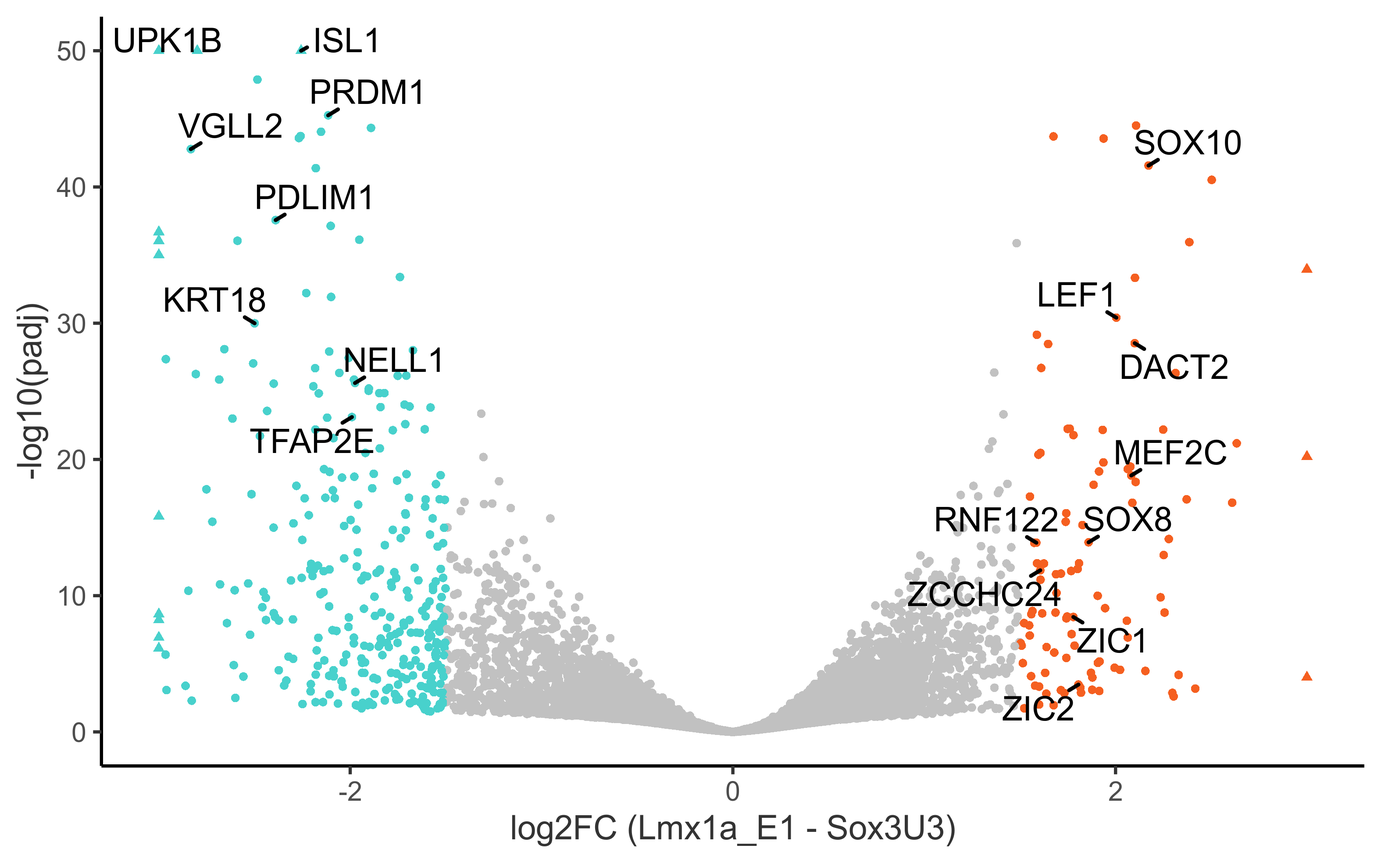
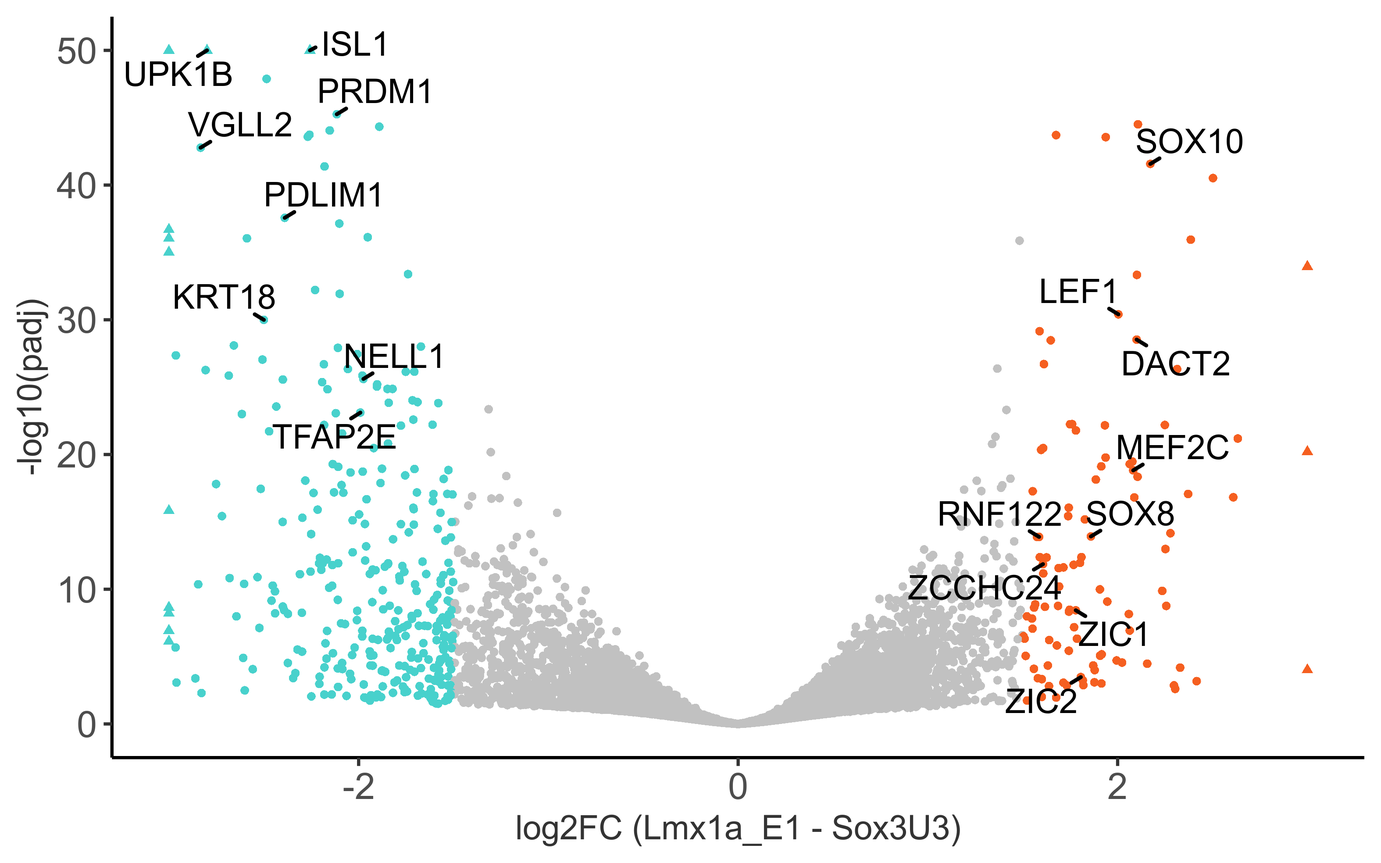
rebuild website

diff --git a/docs/_site/downstream/sox8_downstream/index.html b/docs/_site/downstream/sox8_downstream/index.html
@@ -356,7 +356,8 @@
                      </span><span class="n">values</span><span class="o">=</span><span class="w"> </span><span class="nf">c</span><span class="p">(</span><span class="n">plot_colours</span><span class="o">$</span><span class="n">Group</span><span class="p">[</span><span class="m">2</span><span class="p">],</span><span class="w"> </span><span class="s2">"#c1c1c1"</span><span class="p">,</span><span class="w"> </span><span class="n">plot_colours</span><span class="o">$</span><span class="n">Group</span><span class="p">[</span><span class="m">1</span><span class="p">]))</span><span class="w"> </span><span class="o">+</span><span class="w">
   </span><span class="n">theme</span><span class="p">(</span><span class="n">panel.grid.major</span><span class="w"> </span><span class="o">=</span><span class="w"> </span><span class="n">element_blank</span><span class="p">(),</span><span class="w"> </span><span class="n">panel.grid.minor</span><span class="w"> </span><span class="o">=</span><span class="w"> </span><span class="n">element_blank</span><span class="p">(),</span><span class="w">
         </span><span class="n">panel.background</span><span class="w"> </span><span class="o">=</span><span class="w"> </span><span class="n">element_blank</span><span class="p">(),</span><span class="w"> </span><span class="n">axis.line</span><span class="w"> </span><span class="o">=</span><span class="w"> </span><span class="n">element_line</span><span class="p">(</span><span class="n">colour</span><span class="w"> </span><span class="o">=</span><span class="w"> </span><span class="s2">"black"</span><span class="p">),</span><span class="w">
-        </span><span class="n">legend.position</span><span class="w"> </span><span class="o">=</span><span class="w"> </span><span class="s2">"none"</span><span class="p">,</span><span class="w"> </span><span class="n">legend.title</span><span class="w"> </span><span class="o">=</span><span class="w"> </span><span class="n">element_blank</span><span class="p">())</span><span class="w"> </span><span class="o">+</span><span class="w">
+        </span><span class="n">legend.position</span><span class="w"> </span><span class="o">=</span><span class="w"> </span><span class="s2">"none"</span><span class="p">,</span><span class="w"> </span><span class="n">legend.title</span><span class="w"> </span><span class="o">=</span><span class="w"> </span><span class="n">element_blank</span><span class="p">(),</span><span class="w">
+        </span><span class="n">axis.text</span><span class="w"> </span><span class="o">=</span><span class="w"> </span><span class="n">element_text</span><span class="p">(</span><span class="n">size</span><span class="w"> </span><span class="o">=</span><span class="w"> </span><span class="m">12</span><span class="p">))</span><span class="w"> </span><span class="o">+</span><span class="w">
   </span><span class="n">geom_text_repel</span><span class="p">(</span><span class="n">data</span><span class="w"> </span><span class="o">=</span><span class="w"> </span><span class="n">subset</span><span class="p">(</span><span class="n">volc_dat</span><span class="p">,</span><span class="w"> </span><span class="n">gene</span><span class="w"> </span><span class="o">%in%</span><span class="w"> </span><span class="nf">c</span><span class="p">(</span><span class="n">otic_genes</span><span class="p">,</span><span class="w"> </span><span class="n">downreg</span><span class="p">,</span><span class="w"> </span><span class="s2">"SNAI1"</span><span class="p">)),</span><span class="w"> </span><span class="n">min.segment.length</span><span class="w"> </span><span class="o">=</span><span class="w"> </span><span class="m">0</span><span class="p">,</span><span class="w"> </span><span class="n">segment.size</span><span class="w">  </span><span class="o">=</span><span class="w"> </span><span class="m">0.6</span><span class="p">,</span><span class="w"> </span><span class="n">segment.color</span><span class="w"> </span><span class="o">=</span><span class="w"> </span><span class="s2">"black"</span><span class="p">)</span><span class="w"> </span><span class="o">+</span><span class="w">
   </span><span class="n">xlab</span><span class="p">(</span><span class="s1">'log2FC (Sox8_OE - Control)'</span><span class="p">)</span><span class="w">
 </span><span class="n">graphics.off</span><span class="p">()</span><span class="w">
@@ -564,6 +565,144 @@ differential expression results (absolute log2FC &gt; 1.5 and adjusted p-value &
 </span></code></pre></div></div>
 </details>
 <img class="myImages" id="myImg" src="https://alexthiery.github.io/otic-reprogramming/assets/output/NF-downstream_analysis/sox8_dea/output/sox8_oe_TFs_hm.png">
+</br>
+<p>Compare DE data with DE TFs from Chen et al. (2017) Development</p>
+<div class="language-R highlighter-rouge"><div class="highlight"><pre class="highlight"><code><span class="c1"># Download supplementary file 4 from Chen et al. (2017)</span><span class="w">
+</span><span class="c1"># PPR vs otic 5/6ss, PPR vs otic 8/9ss, PPR vs otic 11/12ss. Dataset is already filtered for transcription factors</span><span class="w">
+
+</span><span class="n">temp</span><span class="w"> </span><span class="o">&lt;-</span><span class="w"> </span><span class="n">tempfile</span><span class="p">()</span><span class="w">
+</span><span class="n">download.file</span><span class="p">(</span><span class="s2">"http://www.biologists.com/DEV_Movies/DEV148494/TableS4.xlsx"</span><span class="p">,</span><span class="w"> </span><span class="n">temp</span><span class="p">)</span><span class="w">
+
+</span><span class="c1"># read xlsx file</span><span class="w">
+</span><span class="n">otic_enr</span><span class="w"> </span><span class="o">&lt;-</span><span class="w"> </span><span class="n">read.xlsx</span><span class="p">(</span><span class="n">temp</span><span class="p">,</span><span class="w"> </span><span class="n">startRow</span><span class="w"> </span><span class="o">=</span><span class="w"> </span><span class="m">15</span><span class="p">)</span><span class="w">
+</span><span class="n">unlink</span><span class="p">(</span><span class="n">temp</span><span class="p">)</span><span class="w">
+
+</span><span class="c1"># assign column names</span><span class="w">
+</span><span class="n">colnames</span><span class="p">(</span><span class="n">otic_enr</span><span class="p">)[</span><span class="m">1</span><span class="o">:</span><span class="m">13</span><span class="p">]</span><span class="w"> </span><span class="o">&lt;-</span><span class="w"> </span><span class="n">paste0</span><span class="p">(</span><span class="n">colnames</span><span class="p">(</span><span class="n">otic_enr</span><span class="p">)[</span><span class="m">1</span><span class="o">:</span><span class="m">13</span><span class="p">],</span><span class="w"> </span><span class="nf">c</span><span class="p">(</span><span class="nf">rep</span><span class="p">(</span><span class="s1">'_normalised_count'</span><span class="p">,</span><span class="w"> </span><span class="m">4</span><span class="p">),</span><span class="w"> </span><span class="nf">rep</span><span class="p">(</span><span class="s1">'_foldChange'</span><span class="p">,</span><span class="w"> </span><span class="m">3</span><span class="p">),</span><span class="w">
+                                                               </span><span class="nf">rep</span><span class="p">(</span><span class="s1">'_pval'</span><span class="p">,</span><span class="w"> </span><span class="m">3</span><span class="p">),</span><span class="w"> </span><span class="nf">rep</span><span class="p">(</span><span class="s1">'_padj'</span><span class="p">,</span><span class="w"> </span><span class="m">3</span><span class="p">)))</span><span class="w">
+
+</span><span class="c1"># assign row names</span><span class="w">
+</span><span class="n">rownames</span><span class="p">(</span><span class="n">otic_enr</span><span class="p">)</span><span class="w"> </span><span class="o">&lt;-</span><span class="w"> </span><span class="n">otic_enr</span><span class="p">[,</span><span class="m">17</span><span class="p">]</span><span class="w">
+</span><span class="n">otic_enr</span><span class="p">[,</span><span class="m">17</span><span class="p">]</span><span class="w"> </span><span class="o">&lt;-</span><span class="w"> </span><span class="kc">NULL</span><span class="w">
+
+</span><span class="c1"># remove genes from Chen dataset which are not DE in at least one of the stages (not sure why these are in the supplementary file)</span><span class="w">
+</span><span class="n">otic_enr</span><span class="w"> </span><span class="o">&lt;-</span><span class="w"> </span><span class="n">otic_enr</span><span class="p">[</span><span class="n">apply</span><span class="p">(</span><span class="n">otic_enr</span><span class="p">,</span><span class="w"> </span><span class="m">1</span><span class="p">,</span><span class="w"> </span><span class="k">function</span><span class="p">(</span><span class="n">x</span><span class="p">)</span><span class="w"> </span><span class="nf">any</span><span class="p">(</span><span class="o">!</span><span class="nf">is.na</span><span class="p">(</span><span class="n">x</span><span class="p">[</span><span class="nf">c</span><span class="p">(</span><span class="s2">"5-6ss_foldChange"</span><span class="p">,</span><span class="w"> </span><span class="s2">"8-9ss_foldChange"</span><span class="p">,</span><span class="w"> </span><span class="s2">"11-12ss_foldChange"</span><span class="p">)]))),]</span><span class="w">
+
+
+</span><span class="c1"># compare Sox8OE data vs otic enriched</span><span class="w">
+</span><span class="c1"># subset genes wich are 1.5FC between either PPR vs 4/5ss, PPR vs 8/9ss, PPR vs 11/12ss</span><span class="w">
+</span><span class="n">otic_enr</span><span class="w"> </span><span class="o">&lt;-</span><span class="w"> </span><span class="n">otic_enr</span><span class="p">[</span><span class="n">otic_enr</span><span class="o">$</span><span class="n">`5-6ss_foldChange`</span><span class="w"> </span><span class="o">&gt;</span><span class="w"> </span><span class="m">1.5</span><span class="w"> </span><span class="o">|</span><span class="w">
+                       </span><span class="n">otic_enr</span><span class="o">$</span><span class="n">`8-9ss_foldChange`</span><span class="w"> </span><span class="o">&gt;</span><span class="w"> </span><span class="m">1.5</span><span class="w"> </span><span class="o">|</span><span class="w">
+                       </span><span class="n">otic_enr</span><span class="o">$</span><span class="n">`11-12ss_foldChange`</span><span class="w"> </span><span class="o">&gt;</span><span class="w"> </span><span class="m">1.5</span><span class="p">,]</span><span class="w">
+</span></code></pre></div></div>
+<p>Plot venn diagram comparing OOPE and Sox8OE</p>
+<details><summary class="box">Code</summary>
+<p>
+<div class="language-R highlighter-rouge"><div class="highlight"><pre class="highlight"><code><span class="n">venn.diagram</span><span class="p">(</span><span class="nf">list</span><span class="p">(</span><span class="n">otic_enr</span><span class="o">=</span><span class="n">rownames</span><span class="p">(</span><span class="n">otic_enr</span><span class="p">),</span><span class="w"> </span><span class="n">sox8OE</span><span class="o">=</span><span class="n">res_sub_TF</span><span class="o">$</span><span class="n">gene_name</span><span class="p">),</span><span class="w">
+             </span><span class="n">category.names</span><span class="w"> </span><span class="o">=</span><span class="w"> </span><span class="nf">c</span><span class="p">(</span><span class="s2">"logFC &gt; 1.5 in any of PPR vs 5/6ss, PPR vs 8/9ss, PPR vs 11/12ss \n(Chen et al. 2017)"</span><span class="p">,</span><span class="w"> </span><span class="s2">"Sox8OE enriched TFs\n(logFC &gt; 1.5, padj = 0.05)"</span><span class="p">),</span><span class="w">
+             </span><span class="n">filename</span><span class="w"> </span><span class="o">=</span><span class="w"> </span><span class="n">paste0</span><span class="p">(</span><span class="n">output_path</span><span class="p">,</span><span class="w"> </span><span class="s2">"otic_enriched_sox8OE_de_venn.png"</span><span class="p">),</span><span class="w">
+             </span><span class="n">output</span><span class="w"> </span><span class="o">=</span><span class="w"> </span><span class="kc">TRUE</span><span class="p">,</span><span class="w">
+             </span><span class="n">imagetype</span><span class="w"> </span><span class="o">=</span><span class="w"> </span><span class="s2">"png"</span><span class="p">,</span><span class="w">
+             </span><span class="n">height</span><span class="w"> </span><span class="o">=</span><span class="w"> </span><span class="m">1100</span><span class="p">,</span><span class="w">
+             </span><span class="n">width</span><span class="w"> </span><span class="o">=</span><span class="w"> </span><span class="m">1100</span><span class="p">,</span><span class="w">
+             </span><span class="n">resolution</span><span class="w"> </span><span class="o">=</span><span class="w"> </span><span class="m">600</span><span class="p">,</span><span class="w">
+             </span><span class="n">compression</span><span class="w"> </span><span class="o">=</span><span class="w"> </span><span class="s2">"lzw"</span><span class="p">,</span><span class="w">
+             </span><span class="n">lwd</span><span class="w"> </span><span class="o">=</span><span class="w"> </span><span class="m">1</span><span class="p">,</span><span class="w">
+             </span><span class="n">col</span><span class="o">=</span><span class="nf">c</span><span class="p">(</span><span class="s2">"#440154ff"</span><span class="p">,</span><span class="w"> </span><span class="s1">'#21908dff'</span><span class="p">),</span><span class="w">
+             </span><span class="n">fill</span><span class="w"> </span><span class="o">=</span><span class="w"> </span><span class="nf">c</span><span class="p">(</span><span class="n">alpha</span><span class="p">(</span><span class="s2">"#440154ff"</span><span class="p">,</span><span class="m">0.3</span><span class="p">),</span><span class="w"> </span><span class="n">alpha</span><span class="p">(</span><span class="s1">'#21908dff'</span><span class="p">,</span><span class="m">0.3</span><span class="p">)),</span><span class="w">
+             </span><span class="n">cex</span><span class="w"> </span><span class="o">=</span><span class="w"> </span><span class="m">0.5</span><span class="p">,</span><span class="w">
+             </span><span class="n">fontfamily</span><span class="w"> </span><span class="o">=</span><span class="w"> </span><span class="s2">"sans"</span><span class="p">,</span><span class="w">
+             </span><span class="n">cat.cex</span><span class="w"> </span><span class="o">=</span><span class="w"> </span><span class="m">0.25</span><span class="p">,</span><span class="w">
+             </span><span class="n">cat.pos</span><span class="w"> </span><span class="o">=</span><span class="w"> </span><span class="nf">c</span><span class="p">(</span><span class="m">0</span><span class="p">,</span><span class="w"> </span><span class="m">0</span><span class="p">),</span><span class="w">
+             </span><span class="n">cat.dist</span><span class="w"> </span><span class="o">=</span><span class="w"> </span><span class="nf">c</span><span class="p">(</span><span class="m">0.03</span><span class="p">,</span><span class="w"> </span><span class="m">0.03</span><span class="p">),</span><span class="w">
+             </span><span class="n">cat.fontfamily</span><span class="w"> </span><span class="o">=</span><span class="w"> </span><span class="s2">"sans"</span><span class="p">,</span><span class="w">
+             </span><span class="n">cat.col</span><span class="w"> </span><span class="o">=</span><span class="w"> </span><span class="nf">c</span><span class="p">(</span><span class="s2">"#440154ff"</span><span class="p">,</span><span class="w"> </span><span class="s1">'#21908dff'</span><span class="p">),</span><span class="w">
+             </span><span class="n">ext.percent</span><span class="w"> </span><span class="o">=</span><span class="w"> </span><span class="m">0</span><span class="w">
+</span><span class="p">)</span><span class="w">
+</span></code></pre></div></div>
+</details>
+<img class="myImages" id="myImg" src="https://alexthiery.github.io/otic-reprogramming/assets/output/NF-downstream_analysis/sox8_dea/output/otic_enriched_sox8OE_de_venn.png">
+</br>
+<p>Make csv file of genes in each part of venn diagram</p>
+<details><summary class="box">Code</summary>
+<p>
+<div class="language-R highlighter-rouge"><div class="highlight"><pre class="highlight"><code><span class="c1"># when identifying shared genes between current study and previous studies which are alligned using different genome version, match genes using gene name.</span><span class="w">
+</span><span class="c1"># this is important as some of the Ensembl IDs from past genome versions have been depracated and therefore are absent from our data.</span><span class="w">
+</span><span class="n">venn.genes</span><span class="w"> </span><span class="o">&lt;-</span><span class="w"> </span><span class="nf">list</span><span class="p">(</span><span class="s2">"Otic enriched"</span><span class="w"> </span><span class="o">=</span><span class="w"> </span><span class="n">rownames</span><span class="p">(</span><span class="n">otic_enr</span><span class="p">)[</span><span class="o">!</span><span class="n">rownames</span><span class="p">(</span><span class="n">otic_enr</span><span class="p">)</span><span class="w"> </span><span class="o">%in%</span><span class="w"> </span><span class="n">res_sub_TF</span><span class="o">$</span><span class="n">gene_name</span><span class="p">],</span><span class="w">
+                   </span><span class="s2">"Sox8OE"</span><span class="w"> </span><span class="o">=</span><span class="w"> </span><span class="n">res_sub_TF</span><span class="o">$</span><span class="n">gene_name</span><span class="p">[</span><span class="o">!</span><span class="n">res_sub_TF</span><span class="o">$</span><span class="n">gene_name</span><span class="w"> </span><span class="o">%in%</span><span class="w"> </span><span class="n">rownames</span><span class="p">(</span><span class="n">otic_enr</span><span class="p">)],</span><span class="w">
+                   </span><span class="s2">"Shared"</span><span class="w"> </span><span class="o">=</span><span class="w"> </span><span class="n">res_sub_TF</span><span class="o">$</span><span class="n">gene_name</span><span class="p">[</span><span class="n">res_sub_TF</span><span class="o">$</span><span class="n">gene_name</span><span class="w"> </span><span class="o">%in%</span><span class="w"> </span><span class="n">rownames</span><span class="p">(</span><span class="n">otic_enr</span><span class="p">)])</span><span class="w">
+
+</span><span class="n">venn.genes.df</span><span class="w"> </span><span class="o">&lt;-</span><span class="w"> </span><span class="n">t</span><span class="p">(</span><span class="n">plyr</span><span class="o">::</span><span class="n">ldply</span><span class="p">(</span><span class="n">venn.genes</span><span class="p">,</span><span class="w"> </span><span class="n">rbind</span><span class="p">))</span><span class="w">
+</span><span class="n">colnames</span><span class="p">(</span><span class="n">venn.genes.df</span><span class="p">)</span><span class="w"> </span><span class="o">&lt;-</span><span class="w"> </span><span class="n">venn.genes.df</span><span class="p">[</span><span class="m">1</span><span class="p">,]</span><span class="w">
+</span><span class="n">venn.genes.df</span><span class="w"> </span><span class="o">&lt;-</span><span class="w"> </span><span class="n">venn.genes.df</span><span class="p">[</span><span class="m">-1</span><span class="p">,]</span><span class="w">
+
+
+</span><span class="n">cat</span><span class="p">(</span><span class="s2">"This table provides a list of genes from each part of the venn diagram.
+Differentially expressed transcription factors between Sox8 overexpression and control samples were cross compared with genes in supplementary table 4 of Chen et al. (2017) Development
+Genes from supplementary table 4 of Chen et al. (2017) Development were filtered and kept if they were found to be differentially expressed (absolute FC &gt; 1.5) between either: PPR vs 5/6ss otic; PPR vs 8/9ss otic; PPR vs 11/12ss otic \n \n"</span><span class="p">,</span><span class="w">
+    </span><span class="n">file</span><span class="w"> </span><span class="o">=</span><span class="w"> </span><span class="n">paste0</span><span class="p">(</span><span class="n">output_path</span><span class="p">,</span><span class="w"> </span><span class="s2">"Sox8_OE_Supplementary_4.csv"</span><span class="p">))</span><span class="w">
+</span><span class="n">write.table</span><span class="p">(</span><span class="n">venn.genes.df</span><span class="p">,</span><span class="w"> </span><span class="n">paste0</span><span class="p">(</span><span class="n">output_path</span><span class="p">,</span><span class="w"> </span><span class="s2">"Sox8_OE_Supplementary_4.csv"</span><span class="p">),</span><span class="w"> </span><span class="n">append</span><span class="o">=</span><span class="kc">TRUE</span><span class="p">,</span><span class="w"> </span><span class="n">row.names</span><span class="w"> </span><span class="o">=</span><span class="w"> </span><span class="nb">F</span><span class="p">,</span><span class="w"> </span><span class="n">na</span><span class="w"> </span><span class="o">=</span><span class="w"> </span><span class="s1">''</span><span class="p">,</span><span class="w"> </span><span class="n">sep</span><span class="o">=</span><span class="s2">","</span><span class="p">)</span><span class="w">
+</span></code></pre></div></div>
+</details>
+<p><a href="https://alexthiery.github.io/otic-reprogramming/assets/output/NF-downstream_analysis/sox8_dea/output/Sox8_OE_Supplementary_4.csv" download>Download otic enriched and Sox8OE enriched transcription factors presented in the venn diagram above.</a></p>
+</br>
+<p>Plot heatmap of transcription factors which are DE in otic cells (Chen 2017) and DE in Sox8OE relative to control cells</p>
+<details><summary class="box">Code</summary>
+<p>
+<div class="language-R highlighter-rouge"><div class="highlight"><pre class="highlight"><code><span class="n">rld.plot</span><span class="w"> </span><span class="o">&lt;-</span><span class="w"> </span><span class="n">assay</span><span class="p">(</span><span class="n">rld</span><span class="p">)</span><span class="w">
+</span><span class="n">rownames</span><span class="p">(</span><span class="n">rld.plot</span><span class="p">)</span><span class="w"> </span><span class="o">&lt;-</span><span class="w"> </span><span class="n">gene_annotations</span><span class="o">$</span><span class="n">gene_name</span><span class="p">[</span><span class="n">match</span><span class="p">(</span><span class="n">rownames</span><span class="p">(</span><span class="n">rld.plot</span><span class="p">),</span><span class="w"> </span><span class="n">gene_annotations</span><span class="o">$</span><span class="n">gene_id</span><span class="p">)]</span><span class="w">
+
+</span><span class="n">png</span><span class="p">(</span><span class="n">paste0</span><span class="p">(</span><span class="n">output_path</span><span class="p">,</span><span class="w"> </span><span class="s2">"otic_enriched_sox8_de_hm.png"</span><span class="p">),</span><span class="n">height</span><span class="w"> </span><span class="o">=</span><span class="w"> </span><span class="m">8</span><span class="p">,</span><span class="w"> </span><span class="n">width</span><span class="w"> </span><span class="o">=</span><span class="w"> </span><span class="m">21</span><span class="p">,</span><span class="w"> </span><span class="n">units</span><span class="w"> </span><span class="o">=</span><span class="w"> </span><span class="s2">"cm"</span><span class="p">,</span><span class="w"> </span><span class="n">res</span><span class="w"> </span><span class="o">=</span><span class="w"> </span><span class="m">200</span><span class="p">)</span><span class="w">
+</span><span class="n">pheatmap</span><span class="p">(</span><span class="n">rld.plot</span><span class="p">[</span><span class="n">venn.genes</span><span class="o">$</span><span class="n">Shared</span><span class="p">,],</span><span class="w"> </span><span class="n">cluster_rows</span><span class="o">=</span><span class="nb">T</span><span class="p">,</span><span class="w"> </span><span class="n">show_rownames</span><span class="o">=</span><span class="nb">T</span><span class="p">,</span><span class="w">
+         </span><span class="n">show_colnames</span><span class="w"> </span><span class="o">=</span><span class="w"> </span><span class="nb">F</span><span class="p">,</span><span class="w"> </span><span class="n">cluster_cols</span><span class="o">=</span><span class="nb">T</span><span class="p">,</span><span class="w"> </span><span class="n">treeheight_row</span><span class="w"> </span><span class="o">=</span><span class="w"> </span><span class="m">30</span><span class="p">,</span><span class="w"> </span><span class="n">treeheight_col</span><span class="w"> </span><span class="o">=</span><span class="w"> </span><span class="m">30</span><span class="p">,</span><span class="w">
+         </span><span class="n">annotation_col</span><span class="o">=</span><span class="n">as.data.frame</span><span class="p">(</span><span class="n">col_data</span><span class="p">[</span><span class="s2">"Group"</span><span class="p">]),</span><span class="w"> </span><span class="n">scale</span><span class="w"> </span><span class="o">=</span><span class="w"> </span><span class="s2">"row"</span><span class="p">,</span><span class="w">
+         </span><span class="n">main</span><span class="w"> </span><span class="o">=</span><span class="w"> </span><span class="s2">"Shared Otic and Sox8OE enriched TFs \n(logFC &gt; 1.5, padj = 0.05)"</span><span class="p">,</span><span class="w"> </span><span class="n">cellwidth</span><span class="w"> </span><span class="o">=</span><span class="w"> </span><span class="m">50</span><span class="p">,</span><span class="w"> </span><span class="n">cellheight</span><span class="w"> </span><span class="o">=</span><span class="w"> </span><span class="m">10</span><span class="p">,</span><span class="w">
+         </span><span class="n">border_color</span><span class="w"> </span><span class="o">=</span><span class="w"> </span><span class="kc">NA</span><span class="p">)</span><span class="w">
+</span><span class="n">graphics.off</span><span class="p">()</span><span class="w">
+</span></code></pre></div></div>
+</details>
+<img class="myImages" id="myImg" src="https://alexthiery.github.io/otic-reprogramming/assets/output/NF-downstream_analysis/sox8_dea/output/otic_enriched_sox8_de_hm.png">
+</br>
+<p>Plot all transcription factors DE in Chen et al. 2017 abs(1.5 FC) using our data - do not filter genes which are not DE in the Sox8OE</p>
+<details><summary class="box">Code</summary>
+<p>
+<div class="language-R highlighter-rouge"><div class="highlight"><pre class="highlight"><code><span class="n">png</span><span class="p">(</span><span class="n">paste0</span><span class="p">(</span><span class="n">output_path</span><span class="p">,</span><span class="w"> </span><span class="s2">"otic_enriched_sox8_any_hm.png"</span><span class="p">),</span><span class="n">height</span><span class="w"> </span><span class="o">=</span><span class="w"> </span><span class="m">40</span><span class="p">,</span><span class="w"> </span><span class="n">width</span><span class="w"> </span><span class="o">=</span><span class="w"> </span><span class="m">21</span><span class="p">,</span><span class="w"> </span><span class="n">units</span><span class="w"> </span><span class="o">=</span><span class="w"> </span><span class="s2">"cm"</span><span class="p">,</span><span class="w"> </span><span class="n">res</span><span class="w"> </span><span class="o">=</span><span class="w"> </span><span class="m">200</span><span class="p">)</span><span class="w">
+</span><span class="n">pheatmap</span><span class="p">(</span><span class="n">rld.plot</span><span class="p">[</span><span class="n">rownames</span><span class="p">(</span><span class="n">otic_enr</span><span class="p">)[</span><span class="n">rownames</span><span class="p">(</span><span class="n">otic_enr</span><span class="p">)</span><span class="w"> </span><span class="o">%in%</span><span class="w"> </span><span class="n">rownames</span><span class="p">(</span><span class="n">rld.plot</span><span class="p">)],],</span><span class="w"> </span><span class="n">cluster_rows</span><span class="o">=</span><span class="nb">T</span><span class="p">,</span><span class="w"> </span><span class="n">show_rownames</span><span class="o">=</span><span class="nb">T</span><span class="p">,</span><span class="w">
+         </span><span class="n">show_colnames</span><span class="w"> </span><span class="o">=</span><span class="w"> </span><span class="nb">F</span><span class="p">,</span><span class="w"> </span><span class="n">cluster_cols</span><span class="o">=</span><span class="nb">T</span><span class="p">,</span><span class="w"> </span><span class="n">treeheight_row</span><span class="w"> </span><span class="o">=</span><span class="w"> </span><span class="m">30</span><span class="p">,</span><span class="w"> </span><span class="n">treeheight_col</span><span class="w"> </span><span class="o">=</span><span class="w"> </span><span class="m">30</span><span class="p">,</span><span class="w">
+         </span><span class="n">annotation_col</span><span class="o">=</span><span class="n">as.data.frame</span><span class="p">(</span><span class="n">col_data</span><span class="p">[</span><span class="s2">"Group"</span><span class="p">]),</span><span class="w"> </span><span class="n">scale</span><span class="w"> </span><span class="o">=</span><span class="w"> </span><span class="s2">"row"</span><span class="p">,</span><span class="w">
+         </span><span class="n">main</span><span class="w"> </span><span class="o">=</span><span class="w"> </span><span class="s2">"Otic enriched TFs - not necessarily DE between Sox8 and control \n(logFC &gt; 1.5, padj = 0.05)"</span><span class="p">,</span><span class="w">
+         </span><span class="n">border_color</span><span class="w"> </span><span class="o">=</span><span class="w"> </span><span class="kc">NA</span><span class="p">)</span><span class="w">
+</span><span class="n">graphics.off</span><span class="p">()</span><span class="w">
+
+</span><span class="c1"># This heatmap reveals that although many genes are not statistically DE in the Sox8OE - they are clearly upregulated in two of the three Sox8 samples.</span><span class="w">
+</span><span class="c1"># A possible explanation for this is that the Sox8OE does not necessarily switch on the otic program at the same rate in different samples and different cells.</span><span class="w">
+</span><span class="c1"># There may be modules of genes which are switched on at different points of otic specification. This variation could explain why these</span><span class="w">
+</span><span class="c1"># genes are not statistically differentially expressed.</span><span class="w">
+
+</span></code></pre></div></div>
+</details>
+<img class="myImages" id="myImg" src="https://alexthiery.github.io/otic-reprogramming/assets/output/NF-downstream_analysis/sox8_dea/output/otic_enriched_sox8_any_hm.png">
+</br>
+<p>Save CSV norm counts and Sox8OE DEA for genes from Chen et al. 2017</p>
+<details><summary class="box">Code</summary>
+<p>
+<div class="language-R highlighter-rouge"><div class="highlight"><pre class="highlight"><code><span class="n">all_dat_Chen_DE</span><span class="w"> </span><span class="o">&lt;-</span><span class="w"> </span><span class="n">all_dat</span><span class="p">[</span><span class="n">all_dat</span><span class="o">$</span><span class="n">gene_name</span><span class="w"> </span><span class="o">%in%</span><span class="w"> </span><span class="n">rownames</span><span class="p">(</span><span class="n">otic_enr</span><span class="p">),]</span><span class="w">
+
+
+</span><span class="n">cat</span><span class="p">(</span><span class="s2">"This table shows genes subset from supplementary table 4 of Chen et al. (2017) Development
+These genes were found to be differentially expressed (absolute FC &gt; 1.5) between either: PPR vs 5/6ss otic; PPR vs 8/9ss otic; PPR vs 11/12ss otic
+The data presented in this table are from Sox8 overexpression and control samples
+Genes presented in this table are not necessarily differentially expressed between Sox8 overexpression and control samples \n
+Statistics:
+Normalised count: read counts adjusted for library size
+pvalue: unadjusted pvalue for differential expression test between Sox8 overexpression and control samples
+padj: pvalue for differential expression test between Sox8 overexpression and control samples - adjusted for multiple testing (Benjamini and Hochberg) \n \n"</span><span class="p">,</span><span class="w">
+    </span><span class="n">file</span><span class="w"> </span><span class="o">=</span><span class="w"> </span><span class="n">paste0</span><span class="p">(</span><span class="n">output_path</span><span class="p">,</span><span class="w"> </span><span class="s2">"Sox8_OE_Supplementary_5.csv"</span><span class="p">))</span><span class="w">
+</span><span class="n">write.table</span><span class="p">(</span><span class="n">all_dat_Chen_DE</span><span class="p">,</span><span class="w"> </span><span class="n">paste0</span><span class="p">(</span><span class="n">output_path</span><span class="p">,</span><span class="w"> </span><span class="s2">"Sox8_OE_Supplementary_5.csv"</span><span class="p">),</span><span class="w"> </span><span class="n">append</span><span class="o">=</span><span class="kc">TRUE</span><span class="p">,</span><span class="w"> </span><span class="n">row.names</span><span class="w"> </span><span class="o">=</span><span class="w"> </span><span class="nb">F</span><span class="p">,</span><span class="w"> </span><span class="n">na</span><span class="w"> </span><span class="o">=</span><span class="w"> </span><span class="s1">'NA'</span><span class="p">,</span><span class="w"> </span><span class="n">sep</span><span class="o">=</span><span class="s2">","</span><span class="p">)</span><span class="w">
+</span></code></pre></div></div>
+</details>
+<p><a href="https://alexthiery.github.io/otic-reprogramming/assets/output/NF-downstream_analysis/sox8_dea/output/Sox8_OE_Supplementary_5.csv" download>norm counts and Sox8OE DEA for genes from Chen et al. 2017.</a></p>
+</br>
 <!-- The Modal -->
 <div id="myModal" class="modal">
   <!-- The Close Button -->

diff --git a/docs/_site/downstream/lmx1a_downstream/index.html b/docs/_site/downstream/lmx1a_downstream/index.html
@@ -339,7 +339,7 @@
 </span><span class="n">otic_genes</span><span class="w"> </span><span class="o">&lt;-</span><span class="w"> </span><span class="nf">c</span><span class="p">(</span><span class="s1">'MEF2C'</span><span class="p">,</span><span class="w"> </span><span class="s1">'SOX10'</span><span class="p">,</span><span class="w"> </span><span class="s1">'SOX8'</span><span class="p">,</span><span class="w"> </span><span class="s1">'ZIC1'</span><span class="p">,</span><span class="w"> </span><span class="s1">'ZIC2'</span><span class="p">,</span><span class="w"> </span><span class="s1">'DACT2'</span><span class="p">,</span><span class="w"> </span><span class="s1">'LEF1'</span><span class="p">,</span><span class="w"> </span><span class="s1">'ZCCHC24'</span><span class="p">,</span><span class="w"> </span><span class="s1">'RNF122'</span><span class="p">)</span><span class="w">
 </span><span class="n">epibranchial_genes</span><span class="w"> </span><span class="o">&lt;-</span><span class="w"> </span><span class="nf">c</span><span class="p">(</span><span class="s1">'PRDM1'</span><span class="p">,</span><span class="w"> </span><span class="s1">'VGLL2'</span><span class="p">,</span><span class="w"> </span><span class="s1">'PDLIM1'</span><span class="p">,</span><span class="w"> </span><span class="s1">'KRT18'</span><span class="p">,</span><span class="w"> </span><span class="s1">'ISL1'</span><span class="p">,</span><span class="w"> </span><span class="s1">'UPK1B'</span><span class="p">,</span><span class="w"> </span><span class="s1">'TFAP2E'</span><span class="p">,</span><span class="w"> </span><span class="s1">'NELL1'</span><span class="p">)</span><span class="w">
 
-</span><span class="n">png</span><span class="p">(</span><span class="n">paste0</span><span class="p">(</span><span class="n">output_path</span><span class="p">,</span><span class="w"> </span><span class="s2">"volcano.png"</span><span class="p">),</span><span class="w"> </span><span class="n">width</span><span class="w"> </span><span class="o">=</span><span class="w"> </span><span class="m">16</span><span class="p">,</span><span class="w"> </span><span class="n">height</span><span class="w"> </span><span class="o">=</span><span class="w"> </span><span class="m">10</span><span class="p">,</span><span class="w"> </span><span class="n">family</span><span class="w"> </span><span class="o">=</span><span class="w"> </span><span class="s1">'Arial'</span><span class="p">,</span><span class="w"> </span><span class="n">units</span><span class="w"> </span><span class="o">=</span><span class="w"> </span><span class="s2">"cm"</span><span class="p">,</span><span class="w"> </span><span class="n">res</span><span class="w"> </span><span class="o">=</span><span class="w"> </span><span class="m">500</span><span class="p">)</span><span class="w">
+</span><span class="n">png</span><span class="p">(</span><span class="n">paste0</span><span class="p">(</span><span class="n">output_path</span><span class="p">,</span><span class="w"> </span><span class="s2">"volcano.png"</span><span class="p">),</span><span class="w"> </span><span class="n">width</span><span class="w"> </span><span class="o">=</span><span class="w"> </span><span class="m">11.5</span><span class="p">,</span><span class="w"> </span><span class="n">height</span><span class="w"> </span><span class="o">=</span><span class="w"> </span><span class="m">7</span><span class="p">,</span><span class="w"> </span><span class="n">family</span><span class="w"> </span><span class="o">=</span><span class="w"> </span><span class="s1">'Arial'</span><span class="p">,</span><span class="w"> </span><span class="n">units</span><span class="w"> </span><span class="o">=</span><span class="w"> </span><span class="s2">"cm"</span><span class="p">,</span><span class="w"> </span><span class="n">res</span><span class="w"> </span><span class="o">=</span><span class="w"> </span><span class="m">500</span><span class="p">)</span><span class="w">
 </span><span class="n">ggplot</span><span class="p">(</span><span class="n">volc_dat</span><span class="p">,</span><span class="w"> </span><span class="n">aes</span><span class="p">(</span><span class="n">log2FoldChange</span><span class="p">,</span><span class="w"> </span><span class="n">`-log10(padj)`</span><span class="p">,</span><span class="w"> </span><span class="n">shape</span><span class="o">=</span><span class="n">shape</span><span class="p">,</span><span class="w"> </span><span class="n">label</span><span class="w"> </span><span class="o">=</span><span class="w"> </span><span class="n">gene</span><span class="p">))</span><span class="w"> </span><span class="o">+</span><span class="w">
   </span><span class="n">geom_point</span><span class="p">(</span><span class="n">aes</span><span class="p">(</span><span class="n">colour</span><span class="w"> </span><span class="o">=</span><span class="w"> </span><span class="n">sig</span><span class="p">,</span><span class="w"> </span><span class="n">fill</span><span class="w"> </span><span class="o">=</span><span class="w"> </span><span class="n">sig</span><span class="p">),</span><span class="w"> </span><span class="n">size</span><span class="w"> </span><span class="o">=</span><span class="w"> </span><span class="m">1</span><span class="p">)</span><span class="w"> </span><span class="o">+</span><span class="w">
   </span><span class="n">scale_fill_manual</span><span class="p">(</span><span class="n">breaks</span><span class="w"> </span><span class="o">=</span><span class="w"> </span><span class="nf">c</span><span class="p">(</span><span class="s2">"not sig"</span><span class="p">,</span><span class="w"> </span><span class="s2">"downregulated"</span><span class="p">,</span><span class="w"> </span><span class="s2">"upregulated"</span><span class="p">),</span><span class="w">
